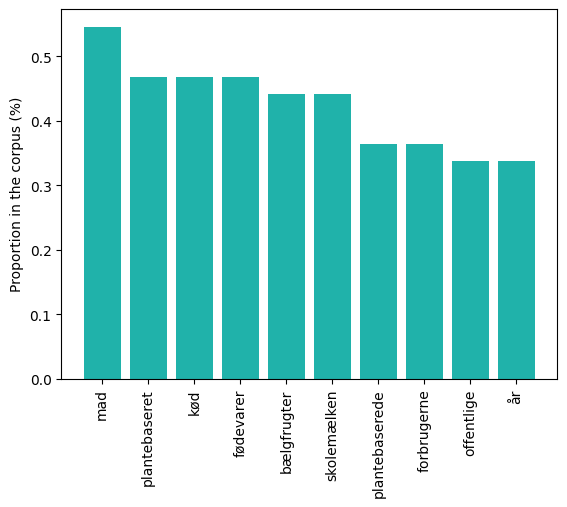
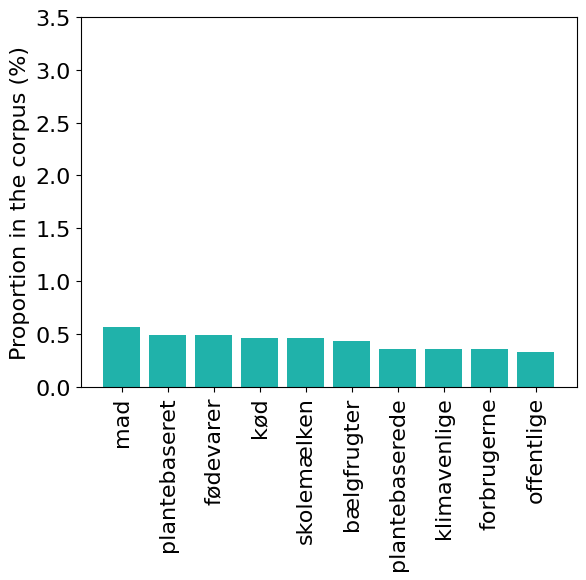
update statistics script and figures

diff --git a/scripts/corpus_stats.py b/scripts/corpus_stats.py
@@ -6,18 +6,19 @@ import nltk
 from nltk.corpus import stopwords
 from nltk.tokenize import word_tokenize
 
+import matplotlib
 import matplotlib.pyplot as plt
 import numpy as np
 
+
+matplotlib.rcParams.update({'font.size': 16})
 
 def plot_dist(plot_path, token_counter, lang, top=10):
     total = sum(token_counter.values())
     most_common = token_counter.most_common()[:top]
     top_tokens, top_counts = zip(*most_common)
 
-    print(f'{10} most frequent tokens for {lang.capitalize()} corpus:')
-    for token, count in most_common:
-        print(f'\t{token}: {count}')
+    print(f'\t{10} most frequent tokens for {lang.capitalize()} corpus: {most_common}')
 
     fig, ax = plt.subplots()
 
@@ -27,6 +28,8 @@ def plot_dist(plot_path, token_counter, lang, top=10):
     ax.set_ylabel('Proportion in the corpus (%)')
     ax.set_xticks(list(range(0, len(top_tokens))))
     ax.set_xticklabels(top_tokens)
+    plt.yticks(np.arange(0.0, 4.0, 0.5))
+
     fig.savefig(plot_path, bbox_inches='tight')
 
 
@@ -55,7 +58,7 @@ def clean_counter(counter, lang):
         'kun',      # only
         'nye',      # new
 
-        'could', 'would', 'need', 'must', '\'s', 'also', 'new', 'us', 'therefore'
+        'could', 'would', 'need', 'must', '\'s', 'also', 'new', 'us', 'therefore', 'one', 'however', 'many'
    ]
 
     for e in extra_to_remove:
@@ -65,31 +68,49 @@ def clean_counter(counter, lang):
 
 
 def statistics(articles_path, plot_path, lang):
-    nltk.download('punkt')
+    print('=' * 80)
+    print(articles_path)
 
     articles = []
     for path in articles_path:
         files = glob.glob(path + '/**/full.txt', recursive=True)
+        files = glob.glob(path + '/*.txt', recursive=True) if len(files) == 0 else files
 
         for file in files:
             with open(file, 'r') as f:
-                content = f.read()
-                articles.append((file, content, word_tokenize(content, language=lang)))
+                content = ''
+                paragraph_count = 0
+                for line in f.readlines():
+                    s_line = line.strip()
+                    content += s_line + '\n'
+                    paragraph_count += 1
 
-    lengths_in_tokens = np.array([len(tokens) for _, _, tokens in articles])
-    print('token statistics:')
-    print('\tmin:', np.min(lengths_in_tokens))
-    print('\tmean:', np.mean(lengths_in_tokens))
-    print('\tmax:', np.max(lengths_in_tokens))
-    print('\tstd:', np.std(lengths_in_tokens))
+                articles.append((file, content, paragraph_count - 2, word_tokenize(content, language=lang)))
 
-    all_tokens = [token.lower() for _, _, tokens in articles for token in tokens]
+    lengths_in_tokens = np.array([len(tokens) for _, _, _, tokens in articles])
+    print('\ttoken statistics:')
+    print('\t\tmin:', np.min(lengths_in_tokens))
+    print('\t\tmean:', np.mean(lengths_in_tokens))
+    print('\t\tmax:', np.max(lengths_in_tokens))
+    print('\t\tstd:', np.std(lengths_in_tokens))
+
+    paragraph_counts = np.array([p_count for _, _, p_count, _ in articles])
+    print('\tparagraph statistics:')
+    print('\t\tmin:', np.min(paragraph_counts))
+    print('\t\tmean:', np.mean(paragraph_counts))
+    print('\t\tmax:', np.max(paragraph_counts))
+    print('\t\tstd:', np.std(paragraph_counts))
+
+    all_tokens = [token.lower() for _, _, _, tokens in articles for token in tokens]
     token_counter = clean_counter(Counter(all_tokens), lang)
 
     plot_dist(plot_path, token_counter, lang)
 
 
 if __name__ == '__main__':
-    statistics(['../articles/guardian', '../articles/pbn'], f'../figures/article_stats_guardian_pbn.png', 'english')
+    nltk.download('punkt')
+
+    statistics(['../articles/guardian'], f'../figures/article_stats_guardian.png', 'english')
+    statistics(['../articles/pbn'], f'../figures/article_stats_pbn.png', 'english')
     statistics(['../articles/altinget-en'], f'../figures/article_stats_altinget_en.png', 'english')
     statistics(['../articles/altinget'], f'../figures/article_stats_altinget_dk.png', 'danish')
